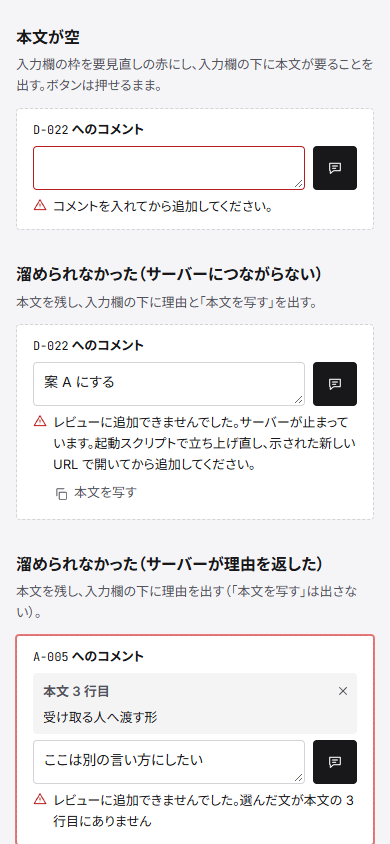
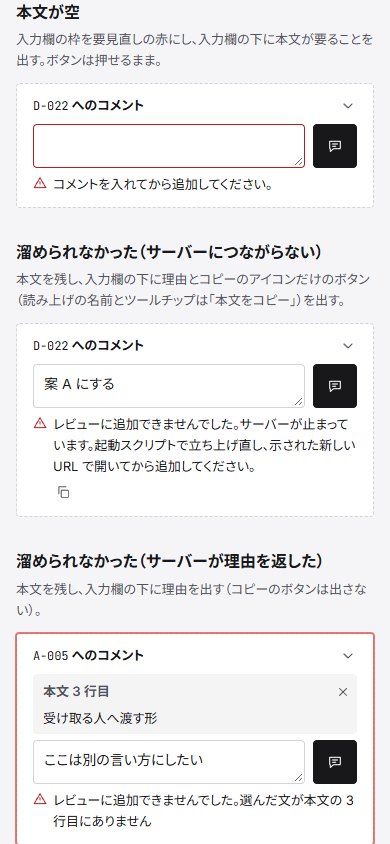
docs: コメントの入力の右上に開閉のボタンを追加する要望を要件とモックに反映 (#473)

diff --git a/dev/mock/components/send-form/index.html b/dev/mock/components/send-form/index.html
@@ -48,62 +48,62 @@
     <section class="cat-sec">
       <h2>通常（入力が空）</h2>
       <p>入力欄の右に、吹き出しのアイコンだけの「レビューに追加」を置く。読み上げの名前は「レビューに追加」、ツールチップは「レビューに追加（Ctrl+Enter）」。結果が無い間は入力欄の下に行を取らない。</p>
-      <div class="stage"><form class="send send-footer" novalidate onsubmit="return false"><label class="send-label" for="sf-1"><span class="mono">D-022</span> へのコメント</label><div class="send-line"><textarea id="sf-1" name="body" rows="1" aria-keyshortcuts="Control+Enter" aria-describedby="sf-1-msg"></textarea><button class="icon-btn send-submit" type="submit" aria-label="レビューに追加" title="レビューに追加（Ctrl+Enter）"><svg class="icon" viewBox="0 0 24 24" aria-hidden="true"><path d="M4 5h16v11H10l-5 4v-4H4Z"/><path d="M8 9h8M8 12.5h5"/></svg></button></div><p class="send-msg" id="sf-1-msg" role="status"></p></form></div>
+      <div class="stage"><form class="send send-footer" novalidate onsubmit="return false"><div class="send-head"><label class="send-label" for="sf-1"><span class="mono">D-022</span> へのコメント</label><button class="icon-btn send-toggle" type="button" aria-expanded="true" aria-controls="sf-1-body" aria-label="コメントの入力を閉じる" title="コメントの入力を閉じる"><svg class="icon" viewBox="0 0 24 24" aria-hidden="true"><path d="m9 6 6 6-6 6"/></svg></button></div><div class="send-body" id="sf-1-body"><div class="send-line"><textarea id="sf-1" name="body" rows="1" aria-keyshortcuts="Control+Enter" aria-describedby="sf-1-msg"></textarea><button class="icon-btn send-submit" type="submit" aria-label="レビューに追加" title="レビューに追加（Ctrl+Enter）"><svg class="icon" viewBox="0 0 24 24" aria-hidden="true"><path d="M4 5h16v11H10l-5 4v-4H4Z"/><path d="M8 9h8M8 12.5h5"/></svg></button></div><p class="send-msg" id="sf-1-msg" role="status"></p></div></form></div>
     </section>
     <section class="cat-sec">
       <h2>入力中（フォーカス）</h2>
       <p>入力欄に印の色の輪。Ctrl+Enter（macOS は Cmd+Enter）でも溜められる。</p>
-      <div class="stage"><form class="send send-footer" novalidate onsubmit="return false"><label class="send-label" for="sf-2"><span class="mono">D-022</span> へのコメント</label><div class="send-line"><textarea id="sf-2" name="body" rows="1" aria-keyshortcuts="Control+Enter" aria-describedby="sf-2-msg" class="is-focus">案 A にする</textarea><button class="icon-btn send-submit" type="submit" aria-label="レビューに追加" title="レビューに追加（Ctrl+Enter）"><svg class="icon" viewBox="0 0 24 24" aria-hidden="true"><path d="M4 5h16v11H10l-5 4v-4H4Z"/><path d="M8 9h8M8 12.5h5"/></svg></button></div><p class="send-msg" id="sf-2-msg" role="status"></p></form></div>
+      <div class="stage"><form class="send send-footer" novalidate onsubmit="return false"><div class="send-head"><label class="send-label" for="sf-2"><span class="mono">D-022</span> へのコメント</label><button class="icon-btn send-toggle" type="button" aria-expanded="true" aria-controls="sf-2-body" aria-label="コメントの入力を閉じる" title="コメントの入力を閉じる"><svg class="icon" viewBox="0 0 24 24" aria-hidden="true"><path d="m9 6 6 6-6 6"/></svg></button></div><div class="send-body" id="sf-2-body"><div class="send-line"><textarea id="sf-2" name="body" rows="1" aria-keyshortcuts="Control+Enter" aria-describedby="sf-2-msg" class="is-focus">案 A にする</textarea><button class="icon-btn send-submit" type="submit" aria-label="レビューに追加" title="レビューに追加（Ctrl+Enter）"><svg class="icon" viewBox="0 0 24 24" aria-hidden="true"><path d="M4 5h16v11H10l-5 4v-4H4Z"/><path d="M8 9h8M8 12.5h5"/></svg></button></div><p class="send-msg" id="sf-2-msg" role="status"></p></div></form></div>
     </section>
     <section class="cat-sec">
       <h2>溜めるボタンのホバー</h2>
       <p>塗りのまま少し薄くし、ツールチップを出す。</p>
-      <div class="stage"><form class="send send-footer" novalidate onsubmit="return false"><label class="send-label" for="sf-3h"><span class="mono">D-022</span> へのコメント</label><div class="send-line"><textarea id="sf-3h" name="body" rows="1" aria-keyshortcuts="Control+Enter" aria-describedby="sf-3h-msg">案 A にする</textarea><button class="icon-btn send-submit is-hover" type="submit" aria-label="レビューに追加" title="レビューに追加（Ctrl+Enter）"><svg class="icon" viewBox="0 0 24 24" aria-hidden="true"><path d="M4 5h16v11H10l-5 4v-4H4Z"/><path d="M8 9h8M8 12.5h5"/></svg></button></div><p class="send-msg" id="sf-3h-msg" role="status"></p></form></div>
+      <div class="stage"><form class="send send-footer" novalidate onsubmit="return false"><div class="send-head"><label class="send-label" for="sf-3h"><span class="mono">D-022</span> へのコメント</label><button class="icon-btn send-toggle" type="button" aria-expanded="true" aria-controls="sf-3h-body" aria-label="コメントの入力を閉じる" title="コメントの入力を閉じる"><svg class="icon" viewBox="0 0 24 24" aria-hidden="true"><path d="m9 6 6 6-6 6"/></svg></button></div><div class="send-body" id="sf-3h-body"><div class="send-line"><textarea id="sf-3h" name="body" rows="1" aria-keyshortcuts="Control+Enter" aria-describedby="sf-3h-msg">案 A にする</textarea><button class="icon-btn send-submit is-hover" type="submit" aria-label="レビューに追加" title="レビューに追加（Ctrl+Enter）"><svg class="icon" viewBox="0 0 24 24" aria-hidden="true"><path d="M4 5h16v11H10l-5 4v-4H4Z"/><path d="M8 9h8M8 12.5h5"/></svg></button></div><p class="send-msg" id="sf-3h-msg" role="status"></p></div></form></div>
     </section>
     <section class="cat-sec">
       <h2>溜めるボタンのフォーカス</h2>
       <p>Tab で入力欄の次に届き、印の色の輪を出す。ツールチップはフォーカスでも出す。</p>
-      <div class="stage"><form class="send send-footer" novalidate onsubmit="return false"><label class="send-label" for="sf-3"><span class="mono">D-022</span> へのコメント</label><div class="send-line"><textarea id="sf-3" name="body" rows="1" aria-keyshortcuts="Control+Enter" aria-describedby="sf-3-msg">案 A にする</textarea><button class="icon-btn send-submit is-focus" type="submit" aria-label="レビューに追加" title="レビューに追加（Ctrl+Enter）"><svg class="icon" viewBox="0 0 24 24" aria-hidden="true"><path d="M4 5h16v11H10l-5 4v-4H4Z"/><path d="M8 9h8M8 12.5h5"/></svg></button></div><p class="send-msg" id="sf-3-msg" role="status"></p></form></div>
+      <div class="stage"><form class="send send-footer" novalidate onsubmit="return false"><div class="send-head"><label class="send-label" for="sf-3"><span class="mono">D-022</span> へのコメント</label><button class="icon-btn send-toggle" type="button" aria-expanded="true" aria-controls="sf-3-body" aria-label="コメントの入力を閉じる" title="コメントの入力を閉じる"><svg class="icon" viewBox="0 0 24 24" aria-hidden="true"><path d="m9 6 6 6-6 6"/></svg></button></div><div class="send-body" id="sf-3-body"><div class="send-line"><textarea id="sf-3" name="body" rows="1" aria-keyshortcuts="Control+Enter" aria-describedby="sf-3-msg">案 A にする</textarea><button class="icon-btn send-submit is-focus" type="submit" aria-label="レビューに追加" title="レビューに追加（Ctrl+Enter）"><svg class="icon" viewBox="0 0 24 24" aria-hidden="true"><path d="M4 5h16v11H10l-5 4v-4H4Z"/><path d="M8 9h8M8 12.5h5"/></svg></button></div><p class="send-msg" id="sf-3-msg" role="status"></p></div></form></div>
     </section>
     <section class="cat-sec">
       <h2>箇所を添えた（本文）</h2>
       <p>入力欄の上に箇所の名前と選んだ文を出し、× で外す。ボタンの並びは変わらない。</p>
-      <div class="stage"><form class="send send-footer" novalidate onsubmit="return false"><label class="send-label" for="sf-4"><span class="mono">A-005</span> へのコメント</label><div class="send-loc" id="sf-4-loc"><div class="send-loc-head"><span class="send-loc-name">本文 3 行目</span><button class="icon-btn send-unquote" type="button" aria-label="箇所を外す" title="箇所を外す"><svg class="icon" viewBox="0 0 24 24" aria-hidden="true"><path d="M18 6 6 18M6 6l12 12"/></svg></button></div><blockquote class="send-quote">受け取る人へ渡す形</blockquote></div><div class="send-line"><textarea id="sf-4" name="body" rows="1" aria-keyshortcuts="Control+Enter" aria-describedby="sf-4-loc sf-4-msg" class="is-focus"></textarea><button class="icon-btn send-submit" type="submit" aria-label="レビューに追加" title="レビューに追加（Ctrl+Enter）"><svg class="icon" viewBox="0 0 24 24" aria-hidden="true"><path d="M4 5h16v11H10l-5 4v-4H4Z"/><path d="M8 9h8M8 12.5h5"/></svg></button></div><p class="send-msg" id="sf-4-msg" role="status"></p></form></div>
+      <div class="stage"><form class="send send-footer" novalidate onsubmit="return false"><div class="send-head"><label class="send-label" for="sf-4"><span class="mono">A-005</span> へのコメント</label><button class="icon-btn send-toggle" type="button" aria-expanded="true" aria-controls="sf-4-body" aria-label="コメントの入力を閉じる" title="コメントの入力を閉じる"><svg class="icon" viewBox="0 0 24 24" aria-hidden="true"><path d="m9 6 6 6-6 6"/></svg></button></div><div class="send-body" id="sf-4-body"><div class="send-loc" id="sf-4-loc"><div class="send-loc-head"><span class="send-loc-name">本文 3 行目</span><button class="icon-btn send-unquote" type="button" aria-label="箇所を外す" title="箇所を外す"><svg class="icon" viewBox="0 0 24 24" aria-hidden="true"><path d="M18 6 6 18M6 6l12 12"/></svg></button></div><blockquote class="send-quote">受け取る人へ渡す形</blockquote></div><div class="send-line"><textarea id="sf-4" name="body" rows="1" aria-keyshortcuts="Control+Enter" aria-describedby="sf-4-loc sf-4-msg" class="is-focus"></textarea><button class="icon-btn send-submit" type="submit" aria-label="レビューに追加" title="レビューに追加（Ctrl+Enter）"><svg class="icon" viewBox="0 0 24 24" aria-hidden="true"><path d="M4 5h16v11H10l-5 4v-4H4Z"/><path d="M8 9h8M8 12.5h5"/></svg></button></div><p class="send-msg" id="sf-4-msg" role="status"></p></div></form></div>
     </section>
     <section class="cat-sec">
       <h2>箇所を添えた（値・長い選んだ文）</h2>
       <p>選んだ文は 3 行までにして末尾を省く。</p>
-      <div class="stage"><form class="send send-footer" novalidate onsubmit="return false"><label class="send-label" for="sf-5"><span class="mono">D-022</span> へのコメント</label><div class="send-loc" id="sf-5-loc"><div class="send-loc-head"><span class="send-loc-name">案 C のデメリット</span><button class="icon-btn send-unquote" type="button" aria-label="箇所を外す" title="箇所を外す"><svg class="icon" viewBox="0 0 24 24" aria-hidden="true"><path d="M18 6 6 18M6 6l12 12"/></svg></button></div><blockquote class="send-quote">表の密度が下がる。表の列を詰めて並べるため、1 行に出せる項目の数が減り、ID と状態の列が画面の外へ押し出される。狭い幅では横に送らないと読めない列が増え、比べるのに手間がかかる</blockquote></div><div class="send-line"><textarea id="sf-5" name="body" rows="1" aria-keyshortcuts="Control+Enter" aria-describedby="sf-5-loc sf-5-msg">ここは別の言い方にしたい</textarea><button class="icon-btn send-submit" type="submit" aria-label="レビューに追加" title="レビューに追加（Ctrl+Enter）"><svg class="icon" viewBox="0 0 24 24" aria-hidden="true"><path d="M4 5h16v11H10l-5 4v-4H4Z"/><path d="M8 9h8M8 12.5h5"/></svg></button></div><p class="send-msg" id="sf-5-msg" role="status"></p></form></div>
+      <div class="stage"><form class="send send-footer" novalidate onsubmit="return false"><div class="send-head"><label class="send-label" for="sf-5"><span class="mono">D-022</span> へのコメント</label><button class="icon-btn send-toggle" type="button" aria-expanded="true" aria-controls="sf-5-body" aria-label="コメントの入力を閉じる" title="コメントの入力を閉じる"><svg class="icon" viewBox="0 0 24 24" aria-hidden="true"><path d="m9 6 6 6-6 6"/></svg></button></div><div class="send-body" id="sf-5-body"><div class="send-loc" id="sf-5-loc"><div class="send-loc-head"><span class="send-loc-name">案 C のデメリット</span><button class="icon-btn send-unquote" type="button" aria-label="箇所を外す" title="箇所を外す"><svg class="icon" viewBox="0 0 24 24" aria-hidden="true"><path d="M18 6 6 18M6 6l12 12"/></svg></button></div><blockquote class="send-quote">表の密度が下がる。表の列を詰めて並べるため、1 行に出せる項目の数が減り、ID と状態の列が画面の外へ押し出される。狭い幅では横に送らないと読めない列が増え、比べるのに手間がかかる</blockquote></div><div class="send-line"><textarea id="sf-5" name="body" rows="1" aria-keyshortcuts="Control+Enter" aria-describedby="sf-5-loc sf-5-msg">ここは別の言い方にしたい</textarea><button class="icon-btn send-submit" type="submit" aria-label="レビューに追加" title="レビューに追加（Ctrl+Enter）"><svg class="icon" viewBox="0 0 24 24" aria-hidden="true"><path d="M4 5h16v11H10l-5 4v-4H4Z"/><path d="M8 9h8M8 12.5h5"/></svg></button></div><p class="send-msg" id="sf-5-msg" role="status"></p></div></form></div>
     </section>
     <section class="cat-sec">
       <h2>溜めている</h2>
       <p>入力欄を書き換えられなくし、ボタンを押せなくする（面を沈める）。1 秒を超えたら回る印と「レビューに追加しています」を入力欄の下に出す。</p>
-      <div class="stage"><form class="send send-footer" novalidate onsubmit="return false"><label class="send-label" for="sf-6"><span class="mono">D-022</span> へのコメント</label><div class="send-line"><textarea id="sf-6" name="body" rows="1" aria-keyshortcuts="Control+Enter" aria-describedby="sf-6-msg" readonly>案 A にする</textarea><button class="icon-btn send-submit" type="submit" aria-label="レビューに追加" title="レビューに追加（Ctrl+Enter）" disabled data-saving><svg class="icon" viewBox="0 0 24 24" aria-hidden="true"><path d="M4 5h16v11H10l-5 4v-4H4Z"/><path d="M8 9h8M8 12.5h5"/></svg></button></div><p class="send-msg saving" id="sf-6-msg" role="status"><span class="spinner" aria-hidden="true"></span><span>レビューに追加しています</span></p></form></div>
+      <div class="stage"><form class="send send-footer" novalidate onsubmit="return false"><div class="send-head"><label class="send-label" for="sf-6"><span class="mono">D-022</span> へのコメント</label><button class="icon-btn send-toggle" type="button" aria-expanded="true" aria-controls="sf-6-body" aria-label="コメントの入力を閉じる" title="コメントの入力を閉じる"><svg class="icon" viewBox="0 0 24 24" aria-hidden="true"><path d="m9 6 6 6-6 6"/></svg></button></div><div class="send-body" id="sf-6-body"><div class="send-line"><textarea id="sf-6" name="body" rows="1" aria-keyshortcuts="Control+Enter" aria-describedby="sf-6-msg" readonly>案 A にする</textarea><button class="icon-btn send-submit" type="submit" aria-label="レビューに追加" title="レビューに追加（Ctrl+Enter）" disabled data-saving><svg class="icon" viewBox="0 0 24 24" aria-hidden="true"><path d="M4 5h16v11H10l-5 4v-4H4Z"/><path d="M8 9h8M8 12.5h5"/></svg></button></div><p class="send-msg saving" id="sf-6-msg" role="status"><span class="spinner" aria-hidden="true"></span><span>レビューに追加しています</span></p></div></form></div>
     </section>
     <section class="cat-sec">
       <h2>溜めた</h2>
       <p>入力欄を空にし、入力欄の下に溜めたことと件数を出す。入力を始めたら消す。</p>
-      <div class="stage"><form class="send send-footer" novalidate onsubmit="return false"><label class="send-label" for="sf-7"><span class="mono">D-022</span> へのコメント</label><div class="send-line"><textarea id="sf-7" name="body" rows="1" aria-keyshortcuts="Control+Enter" aria-describedby="sf-7-msg"></textarea><button class="icon-btn send-submit" type="submit" aria-label="レビューに追加" title="レビューに追加（Ctrl+Enter）"><svg class="icon" viewBox="0 0 24 24" aria-hidden="true"><path d="M4 5h16v11H10l-5 4v-4H4Z"/><path d="M8 9h8M8 12.5h5"/></svg></button></div><p class="send-msg saved" id="sf-7-msg" role="status"><svg class="icon" viewBox="0 0 24 24" aria-hidden="true"><path d="m5 12 5 5 9-10"/></svg><span>レビューに追加しました（レビュー中 3 件）。</span></p></form></div>
+      <div class="stage"><form class="send send-footer" novalidate onsubmit="return false"><div class="send-head"><label class="send-label" for="sf-7"><span class="mono">D-022</span> へのコメント</label><button class="icon-btn send-toggle" type="button" aria-expanded="true" aria-controls="sf-7-body" aria-label="コメントの入力を閉じる" title="コメントの入力を閉じる"><svg class="icon" viewBox="0 0 24 24" aria-hidden="true"><path d="m9 6 6 6-6 6"/></svg></button></div><div class="send-body" id="sf-7-body"><div class="send-line"><textarea id="sf-7" name="body" rows="1" aria-keyshortcuts="Control+Enter" aria-describedby="sf-7-msg"></textarea><button class="icon-btn send-submit" type="submit" aria-label="レビューに追加" title="レビューに追加（Ctrl+Enter）"><svg class="icon" viewBox="0 0 24 24" aria-hidden="true"><path d="M4 5h16v11H10l-5 4v-4H4Z"/><path d="M8 9h8M8 12.5h5"/></svg></button></div><p class="send-msg saved" id="sf-7-msg" role="status"><svg class="icon" viewBox="0 0 24 24" aria-hidden="true"><path d="m5 12 5 5 9-10"/></svg><span>レビューに追加しました（レビュー中 3 件）。</span></p></div></form></div>
     </section>
     <section class="cat-sec">
       <h2>本文が空</h2>
       <p>入力欄の枠を要見直しの赤にし、入力欄の下に本文が要ることを出す。ボタンは押せるまま。</p>
-      <div class="stage"><form class="send send-footer" novalidate onsubmit="return false"><label class="send-label" for="sf-8"><span class="mono">D-022</span> へのコメント</label><div class="send-line"><textarea id="sf-8" name="body" rows="1" aria-keyshortcuts="Control+Enter" aria-describedby="sf-8-msg" aria-invalid="true"></textarea><button class="icon-btn send-submit" type="submit" aria-label="レビューに追加" title="レビューに追加（Ctrl+Enter）"><svg class="icon" viewBox="0 0 24 24" aria-hidden="true"><path d="M4 5h16v11H10l-5 4v-4H4Z"/><path d="M8 9h8M8 12.5h5"/></svg></button></div><p class="send-msg empty" id="sf-8-msg" role="status"><svg class="icon" viewBox="0 0 24 24" aria-hidden="true"><path d="M12 3 2 20h20Z"/><path d="M12 10v4M12 17h.01"/></svg><span>コメントを入れてから追加してください。</span></p></form></div>
+      <div class="stage"><form class="send send-footer" novalidate onsubmit="return false"><div class="send-head"><label class="send-label" for="sf-8"><span class="mono">D-022</span> へのコメント</label><button class="icon-btn send-toggle" type="button" aria-expanded="true" aria-controls="sf-8-body" aria-label="コメントの入力を閉じる" title="コメントの入力を閉じる"><svg class="icon" viewBox="0 0 24 24" aria-hidden="true"><path d="m9 6 6 6-6 6"/></svg></button></div><div class="send-body" id="sf-8-body"><div class="send-line"><textarea id="sf-8" name="body" rows="1" aria-keyshortcuts="Control+Enter" aria-describedby="sf-8-msg" aria-invalid="true"></textarea><button class="icon-btn send-submit" type="submit" aria-label="レビューに追加" title="レビューに追加（Ctrl+Enter）"><svg class="icon" viewBox="0 0 24 24" aria-hidden="true"><path d="M4 5h16v11H10l-5 4v-4H4Z"/><path d="M8 9h8M8 12.5h5"/></svg></button></div><p class="send-msg empty" id="sf-8-msg" role="status"><svg class="icon" viewBox="0 0 24 24" aria-hidden="true"><path d="M12 3 2 20h20Z"/><path d="M12 10v4M12 17h.01"/></svg><span>コメントを入れてから追加してください。</span></p></div></form></div>
     </section>
     <section class="cat-sec">
       <h2>溜められなかった（サーバーにつながらない）</h2>
       <p>本文を残し、入力欄の下に理由とコピーのアイコンだけのボタン（読み上げの名前とツールチップは「本文をコピー」）を出す。</p>
-      <div class="stage"><form class="send send-footer" novalidate onsubmit="return false"><label class="send-label" for="sf-9"><span class="mono">D-022</span> へのコメント</label><div class="send-line"><textarea id="sf-9" name="body" rows="1" aria-keyshortcuts="Control+Enter" aria-describedby="sf-9-msg">案 A にする</textarea><button class="icon-btn send-submit" type="submit" aria-label="レビューに追加" title="レビューに追加（Ctrl+Enter）"><svg class="icon" viewBox="0 0 24 24" aria-hidden="true"><path d="M4 5h16v11H10l-5 4v-4H4Z"/><path d="M8 9h8M8 12.5h5"/></svg></button></div><p class="send-msg failed" id="sf-9-msg" role="status"><svg class="icon" viewBox="0 0 24 24" aria-hidden="true"><path d="M12 3 2 20h20Z"/><path d="M12 10v4M12 17h.01"/></svg><span class="send-msg-body"><span>レビューに追加できませんでした。サーバーが止まっています。起動スクリプトで立ち上げ直し、示された新しい URL で開いてから追加してください。</span><button class="icon-btn send-copy-icon" type="button" aria-label="本文をコピー" title="本文をコピー"><svg class="icon" viewBox="0 0 24 24" aria-hidden="true"><rect x="9" y="9" width="12" height="12" rx="1"/><path d="M5 15V4a1 1 0 0 1 1-1h11"/></svg></button></span></p></form></div>
+      <div class="stage"><form class="send send-footer" novalidate onsubmit="return false"><div class="send-head"><label class="send-label" for="sf-9"><span class="mono">D-022</span> へのコメント</label><button class="icon-btn send-toggle" type="button" aria-expanded="true" aria-controls="sf-9-body" aria-label="コメントの入力を閉じる" title="コメントの入力を閉じる"><svg class="icon" viewBox="0 0 24 24" aria-hidden="true"><path d="m9 6 6 6-6 6"/></svg></button></div><div class="send-body" id="sf-9-body"><div class="send-line"><textarea id="sf-9" name="body" rows="1" aria-keyshortcuts="Control+Enter" aria-describedby="sf-9-msg">案 A にする</textarea><button class="icon-btn send-submit" type="submit" aria-label="レビューに追加" title="レビューに追加（Ctrl+Enter）"><svg class="icon" viewBox="0 0 24 24" aria-hidden="true"><path d="M4 5h16v11H10l-5 4v-4H4Z"/><path d="M8 9h8M8 12.5h5"/></svg></button></div><p class="send-msg failed" id="sf-9-msg" role="status"><svg class="icon" viewBox="0 0 24 24" aria-hidden="true"><path d="M12 3 2 20h20Z"/><path d="M12 10v4M12 17h.01"/></svg><span class="send-msg-body"><span>レビューに追加できませんでした。サーバーが止まっています。起動スクリプトで立ち上げ直し、示された新しい URL で開いてから追加してください。</span><button class="icon-btn send-copy-icon" type="button" aria-label="本文をコピー" title="本文をコピー"><svg class="icon" viewBox="0 0 24 24" aria-hidden="true"><rect x="9" y="9" width="12" height="12" rx="1"/><path d="M5 15V4a1 1 0 0 1 1-1h11"/></svg></button></span></p></div></form></div>
     </section>
     <section class="cat-sec">
       <h2>溜められなかった（サーバーが理由を返した）</h2>
       <p>本文を残し、入力欄の下に理由を出す（コピーのボタンは出さない）。</p>
-      <div class="stage"><form class="send send-footer" novalidate onsubmit="return false"><label class="send-label" for="sf-9d"><span class="mono">A-005</span> へのコメント</label><div class="send-loc" id="sf-9d-loc"><div class="send-loc-head"><span class="send-loc-name">本文 3 行目</span><button class="icon-btn send-unquote" type="button" aria-label="箇所を外す" title="箇所を外す"><svg class="icon" viewBox="0 0 24 24" aria-hidden="true"><path d="M18 6 6 18M6 6l12 12"/></svg></button></div><blockquote class="send-quote">受け取る人へ渡す形</blockquote></div><div class="send-line"><textarea id="sf-9d" name="body" rows="1" aria-keyshortcuts="Control+Enter" aria-describedby="sf-9d-loc sf-9d-msg">ここは別の言い方にしたい</textarea><button class="icon-btn send-submit" type="submit" aria-label="レビューに追加" title="レビューに追加（Ctrl+Enter）"><svg class="icon" viewBox="0 0 24 24" aria-hidden="true"><path d="M4 5h16v11H10l-5 4v-4H4Z"/><path d="M8 9h8M8 12.5h5"/></svg></button></div><p class="send-msg failed" id="sf-9d-msg" role="status"><svg class="icon" viewBox="0 0 24 24" aria-hidden="true"><path d="M12 3 2 20h20Z"/><path d="M12 10v4M12 17h.01"/></svg><span>レビューに追加できませんでした。選んだ文が本文の 3 行目にありません</span></p></form></div>
+      <div class="stage"><form class="send send-footer" novalidate onsubmit="return false"><div class="send-head"><label class="send-label" for="sf-9d"><span class="mono">A-005</span> へのコメント</label><button class="icon-btn send-toggle" type="button" aria-expanded="true" aria-controls="sf-9d-body" aria-label="コメントの入力を閉じる" title="コメントの入力を閉じる"><svg class="icon" viewBox="0 0 24 24" aria-hidden="true"><path d="m9 6 6 6-6 6"/></svg></button></div><div class="send-body" id="sf-9d-body"><div class="send-loc" id="sf-9d-loc"><div class="send-loc-head"><span class="send-loc-name">本文 3 行目</span><button class="icon-btn send-unquote" type="button" aria-label="箇所を外す" title="箇所を外す"><svg class="icon" viewBox="0 0 24 24" aria-hidden="true"><path d="M18 6 6 18M6 6l12 12"/></svg></button></div><blockquote class="send-quote">受け取る人へ渡す形</blockquote></div><div class="send-line"><textarea id="sf-9d" name="body" rows="1" aria-keyshortcuts="Control+Enter" aria-describedby="sf-9d-loc sf-9d-msg">ここは別の言い方にしたい</textarea><button class="icon-btn send-submit" type="submit" aria-label="レビューに追加" title="レビューに追加（Ctrl+Enter）"><svg class="icon" viewBox="0 0 24 24" aria-hidden="true"><path d="M4 5h16v11H10l-5 4v-4H4Z"/><path d="M8 9h8M8 12.5h5"/></svg></button></div><p class="send-msg failed" id="sf-9d-msg" role="status"><svg class="icon" viewBox="0 0 24 24" aria-hidden="true"><path d="M12 3 2 20h20Z"/><path d="M12 10v4M12 17h.01"/></svg><span>レビューに追加できませんでした。選んだ文が本文の 3 行目にありません</span></p></div></form></div>
     </section>
     <section class="cat-sec">
       <h2>長文（ボタンの縦の位置: 案 A・推奨）</h2>
       <p>入力欄は 8 行まで伸び、それより長いと中を送る。ボタンは入力欄の下端に合わせ、書き終えた位置の近くで押せる。</p>
-      <div class="stage"><form class="send send-footer" novalidate onsubmit="return false"><label class="send-label" for="sf-10"><span class="mono">D-022</span> へのコメント</label><div class="send-line"><textarea id="sf-10" name="body" rows="1" aria-keyshortcuts="Control+Enter" aria-describedby="sf-10-msg">案 A にする。
+      <div class="stage"><form class="send send-footer" novalidate onsubmit="return false"><div class="send-head"><label class="send-label" for="sf-10"><span class="mono">D-022</span> へのコメント</label><button class="icon-btn send-toggle" type="button" aria-expanded="true" aria-controls="sf-10-body" aria-label="コメントの入力を閉じる" title="コメントの入力を閉じる"><svg class="icon" viewBox="0 0 24 24" aria-hidden="true"><path d="m9 6 6 6-6 6"/></svg></button></div><div class="send-body" id="sf-10-body"><div class="send-line"><textarea id="sf-10" name="body" rows="1" aria-keyshortcuts="Control+Enter" aria-describedby="sf-10-msg">案 A にする。
 理由: 読み返す画面なので、表と数値を長く読んでも疲れない無彩色の骨格がよい。
 印の色は 1 色に絞り、状態の色は状態の表示だけに使う。
 B のカード中心は一覧が長くなると縦に伸びるので、検討事項の表と相性が悪い。
@@ -112,12 +112,12 @@ C のダークは夜間に読むことが少ないので、明暗の切り替え
 フォントは Google Fonts から読む今の形のままでよい。
 ID の等幅は残す。
 図の色はトークンから決める今の形でよい。
-以上。</textarea><button class="icon-btn send-submit" type="submit" aria-label="レビューに追加" title="レビューに追加（Ctrl+Enter）"><svg class="icon" viewBox="0 0 24 24" aria-hidden="true"><path d="M4 5h16v11H10l-5 4v-4H4Z"/><path d="M8 9h8M8 12.5h5"/></svg></button></div><p class="send-msg" id="sf-10-msg" role="status"></p></form></div>
+以上。</textarea><button class="icon-btn send-submit" type="submit" aria-label="レビューに追加" title="レビューに追加（Ctrl+Enter）"><svg class="icon" viewBox="0 0 24 24" aria-hidden="true"><path d="M4 5h16v11H10l-5 4v-4H4Z"/><path d="M8 9h8M8 12.5h5"/></svg></button></div><p class="send-msg" id="sf-10-msg" role="status"></p></div></form></div>
     </section>
     <section class="cat-sec">
       <h2>長文（ボタンの縦の位置: 案 B）</h2>
       <p>ボタンを入力欄の上端に合わせた案。行数が増えてもボタンの位置は動かない。</p>
-      <div class="stage"><form class="send send-footer" novalidate onsubmit="return false"><label class="send-label" for="sf-10b"><span class="mono">D-022</span> へのコメント</label><div class="send-line top"><textarea id="sf-10b" name="body" rows="1" aria-keyshortcuts="Control+Enter" aria-describedby="sf-10b-msg">案 A にする。
+      <div class="stage"><form class="send send-footer" novalidate onsubmit="return false"><div class="send-head"><label class="send-label" for="sf-10b"><span class="mono">D-022</span> へのコメント</label><button class="icon-btn send-toggle" type="button" aria-expanded="true" aria-controls="sf-10b-body" aria-label="コメントの入力を閉じる" title="コメントの入力を閉じる"><svg class="icon" viewBox="0 0 24 24" aria-hidden="true"><path d="m9 6 6 6-6 6"/></svg></button></div><div class="send-body" id="sf-10b-body"><div class="send-line top"><textarea id="sf-10b" name="body" rows="1" aria-keyshortcuts="Control+Enter" aria-describedby="sf-10b-msg">案 A にする。
 理由: 読み返す画面なので、表と数値を長く読んでも疲れない無彩色の骨格がよい。
 印の色は 1 色に絞り、状態の色は状態の表示だけに使う。
 B のカード中心は一覧が長くなると縦に伸びるので、検討事項の表と相性が悪い。
@@ -126,12 +126,22 @@ C のダークは夜間に読むことが少ないので、明暗の切り替え
 フォントは Google Fonts から読む今の形のままでよい。
 ID の等幅は残す。
 図の色はトークンから決める今の形でよい。
-以上。</textarea><button class="icon-btn send-submit" type="submit" aria-label="レビューに追加" title="レビューに追加（Ctrl+Enter）"><svg class="icon" viewBox="0 0 24 24" aria-hidden="true"><path d="M4 5h16v11H10l-5 4v-4H4Z"/><path d="M8 9h8M8 12.5h5"/></svg></button></div><p class="send-msg" id="sf-10b-msg" role="status"></p></form></div>
+以上。</textarea><button class="icon-btn send-submit" type="submit" aria-label="レビューに追加" title="レビューに追加（Ctrl+Enter）"><svg class="icon" viewBox="0 0 24 24" aria-hidden="true"><path d="M4 5h16v11H10l-5 4v-4H4Z"/><path d="M8 9h8M8 12.5h5"/></svg></button></div><p class="send-msg" id="sf-10b-msg" role="status"></p></div></form></div>
     </section>
     <section class="cat-sec">
       <h2>アイコンの案 B（送信のアイコン）</h2>
       <p>まとめて送るボタンと同じ紙飛行機のアイコンにした案。押すと溜まる操作だと読み取りやすいが、まとめて送る操作と取り違えやすい。</p>
-      <div class="stage"><form class="send send-footer" novalidate onsubmit="return false"><label class="send-label" for="sf-icon-b"><span class="mono">D-022</span> へのコメント</label><div class="send-line"><textarea id="sf-icon-b" name="body" rows="1" aria-keyshortcuts="Control+Enter" aria-describedby="sf-icon-b-msg">案 A にする</textarea><button class="icon-btn send-submit" type="submit" aria-label="レビューに追加" title="レビューに追加（Ctrl+Enter）"><svg class="icon" viewBox="0 0 24 24" aria-hidden="true"><path d="M4 12 20 4l-4 16-4-6Z"/><path d="m12 14 8-10"/></svg></button></div><p class="send-msg" id="sf-icon-b-msg" role="status"></p></form></div>
+      <div class="stage"><form class="send send-footer" novalidate onsubmit="return false"><div class="send-head"><label class="send-label" for="sf-icon-b"><span class="mono">D-022</span> へのコメント</label><button class="icon-btn send-toggle" type="button" aria-expanded="true" aria-controls="sf-icon-b-body" aria-label="コメントの入力を閉じる" title="コメントの入力を閉じる"><svg class="icon" viewBox="0 0 24 24" aria-hidden="true"><path d="m9 6 6 6-6 6"/></svg></button></div><div class="send-body" id="sf-icon-b-body"><div class="send-line"><textarea id="sf-icon-b" name="body" rows="1" aria-keyshortcuts="Control+Enter" aria-describedby="sf-icon-b-msg">案 A にする</textarea><button class="icon-btn send-submit" type="submit" aria-label="レビューに追加" title="レビューに追加（Ctrl+Enter）"><svg class="icon" viewBox="0 0 24 24" aria-hidden="true"><path d="M4 12 20 4l-4 16-4-6Z"/><path d="m12 14 8-10"/></svg></button></div><p class="send-msg" id="sf-icon-b-msg" role="status"></p></div></form></div>
+    </section>
+    <section class="cat-sec">
+      <h2>閉じた</h2>
+      <p>右上の ^ で開く。閉じている間は「{ID} へのコメント」の 1 行だけを出し、入力欄・添えた箇所・結果・「レビューに追加」を出さない。書きかけは閉じても残る。</p>
+      <div class="stage"><form class="send send-footer is-closed" novalidate onsubmit="return false"><div class="send-head"><span class="send-label"><span class="mono">D-022</span> へのコメント</span><button class="icon-btn send-toggle" type="button" aria-expanded="false" aria-controls="sf-c1-body" aria-label="コメントの入力を開く" title="コメントの入力を開く"><svg class="icon" viewBox="0 0 24 24" aria-hidden="true"><path d="m9 6 6 6-6 6"/></svg></button></div><div class="send-body" id="sf-c1-body" hidden></div></form></div>
+    </section>
+    <section class="cat-sec">
+      <h2>開閉のボタンのホバー・フォーカス</h2>
+      <p>開いている間は v（コメントの入力を閉じる）、閉じている間は ^（コメントの入力を開く）。ツールチップはホバーとフォーカスで出す。</p>
+      <div class="stage"><form class="send send-footer" novalidate onsubmit="return false"><div class="send-head"><label class="send-label" for="sf-c2"><span class="mono">D-022</span> へのコメント</label><button class="icon-btn send-toggle is-focus" type="button" aria-expanded="true" aria-controls="sf-c2-body" aria-label="コメントの入力を閉じる" title="コメントの入力を閉じる"><svg class="icon" viewBox="0 0 24 24" aria-hidden="true"><path d="m9 6 6 6-6 6"/></svg></button></div><div class="send-body" id="sf-c2-body"><div class="send-line"><textarea id="sf-c2" name="body" rows="1" aria-keyshortcuts="Control+Enter" aria-describedby="sf-c2-msg"></textarea><button class="icon-btn send-submit" type="submit" aria-label="レビューに追加" title="レビューに追加（Ctrl+Enter）"><svg class="icon" viewBox="0 0 24 24" aria-hidden="true"><path d="M4 5h16v11H10l-5 4v-4H4Z"/><path d="M8 9h8M8 12.5h5"/></svg></button></div><p class="send-msg" id="sf-c2-msg" role="status"></p></div></form><form class="send send-footer is-closed" novalidate onsubmit="return false"><div class="send-head"><span class="send-label"><span class="mono">D-022</span> へのコメント</span><button class="icon-btn send-toggle is-focus" type="button" aria-expanded="false" aria-controls="sf-c3-body" aria-label="コメントの入力を開く" title="コメントの入力を開く"><svg class="icon" viewBox="0 0 24 24" aria-hidden="true"><path d="m9 6 6 6-6 6"/></svg></button></div><div class="send-body" id="sf-c3-body" hidden></div></form></div>
     </section>
     <section class="cat-sec">
       <h2>項目を指さないコメント（コメントの一覧の新しいスレッドの入力）</h2>
@@ -146,12 +156,17 @@ ID の等幅は残す。
     <section class="cat-sec">
       <h2>狭い幅（390px）</h2>
       <p>部品の幅によらず入力欄とボタンを 1 行に並べ、結果は入力欄の下に幅いっぱいで出す。</p>
-      <div class="stage narrow"><form class="send send-footer" novalidate onsubmit="return false"><label class="send-label" for="sf-14"><span class="mono">D-022</span> へのコメント</label><div class="send-loc" id="sf-14-loc"><div class="send-loc-head"><span class="send-loc-name">本文 3 行目</span><button class="icon-btn send-unquote" type="button" aria-label="箇所を外す" title="箇所を外す"><svg class="icon" viewBox="0 0 24 24" aria-hidden="true"><path d="M18 6 6 18M6 6l12 12"/></svg></button></div><blockquote class="send-quote">受け取る人へ渡す形</blockquote></div><div class="send-line"><textarea id="sf-14" name="body" rows="1" aria-keyshortcuts="Control+Enter" aria-describedby="sf-14-loc sf-14-msg">案 A にする</textarea><button class="icon-btn send-submit" type="submit" aria-label="レビューに追加" title="レビューに追加（Ctrl+Enter）"><svg class="icon" viewBox="0 0 24 24" aria-hidden="true"><path d="M4 5h16v11H10l-5 4v-4H4Z"/><path d="M8 9h8M8 12.5h5"/></svg></button></div><p class="send-msg failed" id="sf-14-msg" role="status"><svg class="icon" viewBox="0 0 24 24" aria-hidden="true"><path d="M12 3 2 20h20Z"/><path d="M12 10v4M12 17h.01"/></svg><span class="send-msg-body"><span>レビューに追加できませんでした。サーバーが止まっています。起動スクリプトで立ち上げ直し、示された新しい URL で開いてから追加してください。</span><button class="icon-btn send-copy-icon" type="button" aria-label="本文をコピー" title="本文をコピー"><svg class="icon" viewBox="0 0 24 24" aria-hidden="true"><rect x="9" y="9" width="12" height="12" rx="1"/><path d="M5 15V4a1 1 0 0 1 1-1h11"/></svg></button></span></p></form></div>
+      <div class="stage narrow"><form class="send send-footer" novalidate onsubmit="return false"><div class="send-head"><label class="send-label" for="sf-14"><span class="mono">D-022</span> へのコメント</label><button class="icon-btn send-toggle" type="button" aria-expanded="true" aria-controls="sf-14-body" aria-label="コメントの入力を閉じる" title="コメントの入力を閉じる"><svg class="icon" viewBox="0 0 24 24" aria-hidden="true"><path d="m9 6 6 6-6 6"/></svg></button></div><div class="send-body" id="sf-14-body"><div class="send-loc" id="sf-14-loc"><div class="send-loc-head"><span class="send-loc-name">本文 3 行目</span><button class="icon-btn send-unquote" type="button" aria-label="箇所を外す" title="箇所を外す"><svg class="icon" viewBox="0 0 24 24" aria-hidden="true"><path d="M18 6 6 18M6 6l12 12"/></svg></button></div><blockquote class="send-quote">受け取る人へ渡す形</blockquote></div><div class="send-line"><textarea id="sf-14" name="body" rows="1" aria-keyshortcuts="Control+Enter" aria-describedby="sf-14-loc sf-14-msg">案 A にする</textarea><button class="icon-btn send-submit" type="submit" aria-label="レビューに追加" title="レビューに追加（Ctrl+Enter）"><svg class="icon" viewBox="0 0 24 24" aria-hidden="true"><path d="M4 5h16v11H10l-5 4v-4H4Z"/><path d="M8 9h8M8 12.5h5"/></svg></button></div><p class="send-msg failed" id="sf-14-msg" role="status"><svg class="icon" viewBox="0 0 24 24" aria-hidden="true"><path d="M12 3 2 20h20Z"/><path d="M12 10v4M12 17h.01"/></svg><span class="send-msg-body"><span>レビューに追加できませんでした。サーバーが止まっています。起動スクリプトで立ち上げ直し、示された新しい URL で開いてから追加してください。</span><button class="icon-btn send-copy-icon" type="button" aria-label="本文をコピー" title="本文をコピー"><svg class="icon" viewBox="0 0 24 24" aria-hidden="true"><rect x="9" y="9" width="12" height="12" rx="1"/><path d="M5 15V4a1 1 0 0 1 1-1h11"/></svg></button></span></p></div></form></div>
     </section>
     <section class="cat-sec">
       <h2>最も狭い幅（320px）</h2>
       <p>入力欄はボタンの幅を除いた残りに広がり、結果の文言は折り返す。</p>
-      <div class="stage narrowest"><form class="send send-footer" novalidate onsubmit="return false"><label class="send-label" for="sf-15"><span class="mono">D-022</span> へのコメント</label><div class="send-line"><textarea id="sf-15" name="body" rows="1" aria-keyshortcuts="Control+Enter" aria-describedby="sf-15-msg"></textarea><button class="icon-btn send-submit" type="submit" aria-label="レビューに追加" title="レビューに追加（Ctrl+Enter）"><svg class="icon" viewBox="0 0 24 24" aria-hidden="true"><path d="M4 5h16v11H10l-5 4v-4H4Z"/><path d="M8 9h8M8 12.5h5"/></svg></button></div><p class="send-msg saved" id="sf-15-msg" role="status"><svg class="icon" viewBox="0 0 24 24" aria-hidden="true"><path d="m5 12 5 5 9-10"/></svg><span>レビューに追加しました（レビュー中 3 件）。</span></p></form></div>
+      <div class="stage narrowest"><form class="send send-footer" novalidate onsubmit="return false"><div class="send-head"><label class="send-label" for="sf-15"><span class="mono">D-022</span> へのコメント</label><button class="icon-btn send-toggle" type="button" aria-expanded="true" aria-controls="sf-15-body" aria-label="コメントの入力を閉じる" title="コメントの入力を閉じる"><svg class="icon" viewBox="0 0 24 24" aria-hidden="true"><path d="m9 6 6 6-6 6"/></svg></button></div><div class="send-body" id="sf-15-body"><div class="send-line"><textarea id="sf-15" name="body" rows="1" aria-keyshortcuts="Control+Enter" aria-describedby="sf-15-msg"></textarea><button class="icon-btn send-submit" type="submit" aria-label="レビューに追加" title="レビューに追加（Ctrl+Enter）"><svg class="icon" viewBox="0 0 24 24" aria-hidden="true"><path d="M4 5h16v11H10l-5 4v-4H4Z"/><path d="M8 9h8M8 12.5h5"/></svg></button></div><p class="send-msg saved" id="sf-15-msg" role="status"><svg class="icon" viewBox="0 0 24 24" aria-hidden="true"><path d="m5 12 5 5 9-10"/></svg><span>レビューに追加しました（レビュー中 3 件）。</span></p></div></form></div>
+    </section>
+    <section class="cat-sec">
+      <h2>閉じた（最も狭い幅 320px）</h2>
+      <p>閉じても開閉のボタンの幅は保つ。</p>
+      <div class="stage narrowest"><form class="send send-footer is-closed" novalidate onsubmit="return false"><div class="send-head"><span class="send-label"><span class="mono">D-022</span> へのコメント</span><button class="icon-btn send-toggle" type="button" aria-expanded="false" aria-controls="sf-c4-body" aria-label="コメントの入力を開く" title="コメントの入力を開く"><svg class="icon" viewBox="0 0 24 24" aria-hidden="true"><path d="m9 6 6 6-6 6"/></svg></button></div><div class="send-body" id="sf-c4-body" hidden></div></form></div>
     </section>
   </main>
 </body>

diff --git a/dev/mock/components/reply-form/index.html b/dev/mock/components/reply-form/index.html
@@ -113,6 +113,11 @@
 12 行目: 版ごとに当てる操作を確かめる</textarea><button class="icon-btn send-submit" type="submit" aria-label="レビューに追加" title="レビューに追加（Ctrl+Enter）"><svg class="icon" viewBox="0 0 24 24" aria-hidden="true"><path d="M4 5h16v11H10l-5 4v-4H4Z"/><path d="M8 9h8M8 12.5h5"/></svg></button></div><p class="send-msg" id="rf-7b-msg" role="status"></p></form></div>
     </section>
     <section class="cat-sec">
+      <h2>開閉のボタン（置く入力の案 B）</h2>
+      <p>返信の入力にも、ラベル「返信」の行の右端に開閉のボタンを置いた案。閉じたときは「返信」の 1 行だけを出す。</p>
+      <div class="stage"><form class="send send-footer reply" novalidate onsubmit="return false"><div class="send-head"><label class="send-label" for="rf-b">返信</label><button class="icon-btn send-toggle" type="button" aria-expanded="true" aria-controls="rf-b-body" aria-label="返信の入力を閉じる" title="返信の入力を閉じる"><svg class="icon" viewBox="0 0 24 24" aria-hidden="true"><path d="m9 6 6 6-6 6"/></svg></button></div><div class="send-body" id="rf-b-body"><div class="send-line"><textarea id="rf-b" name="body" rows="1" aria-keyshortcuts="Control+Enter" aria-describedby="rf-b-msg" maxlength="10000">起票してよい。題は「版の範囲から当てる手順を返すコマンド」に縮めてほしい</textarea><button class="icon-btn send-submit" type="submit" aria-label="レビューに追加" title="レビューに追加（Ctrl+Enter）"><svg class="icon" viewBox="0 0 24 24" aria-hidden="true"><path d="M4 5h16v11H10l-5 4v-4H4Z"/><path d="M8 9h8M8 12.5h5"/></svg></button></div><p class="send-msg" id="rf-b-msg" role="status"></p></div></form></div>
+    </section>
+    <section class="cat-sec">
       <h2>狭い幅（390px）</h2>
       <p>部品の幅によらず入力欄とボタンを 1 行に並べ、結果は入力欄の下に幅いっぱいで出す。</p>
       <div class="stage narrow"><form class="send send-footer reply" novalidate onsubmit="return false"><label class="send-label" for="rf-8">返信</label><div class="send-line"><textarea id="rf-8" name="body" rows="1" aria-keyshortcuts="Control+Enter" aria-describedby="rf-8-msg" maxlength="10000">起票してよい。題は「版の範囲から当てる手順を返すコマンド」に縮めてほしい</textarea><button class="icon-btn send-submit" type="submit" aria-label="レビューに追加" title="レビューに追加（Ctrl+Enter）"><svg class="icon" viewBox="0 0 24 24" aria-hidden="true"><path d="M4 5h16v11H10l-5 4v-4H4Z"/><path d="M8 9h8M8 12.5h5"/></svg></button></div><p class="send-msg failed" id="rf-8-msg" role="status"><svg class="icon" viewBox="0 0 24 24" aria-hidden="true"><path d="M12 3 2 20h20Z"/><path d="M12 10v4M12 17h.01"/></svg><span>レビューに追加できませんでした。サーバーが止まっています。立ち上げ直してから追加してください。</span></p></form></div>

diff --git a/dev/mock/refs/473/assets/style.css b/dev/mock/refs/473/assets/style.css
@@ -22,11 +22,28 @@
 }
 
 /* 結果の行: 入力欄の下に幅いっぱいで出し、結果が無い間は高さを取らない */
-.send > .send-msg { min-height: 0; padding-top: 0; }
+.send > .send-msg, .send-body > .send-msg { min-height: 0; padding-top: 0; }
 /* 結果が無い結果の行: 行を出さない */
-.send > .send-msg:empty { display: none; }
+.send > .send-msg:empty, .send-body > .send-msg:empty { display: none; }
 
 /* 本文のコピー: 理由の下に置くアイコンだけのボタン。左端を理由の文の頭に合わせる */
 .send-copy-icon { width: var(--target-min); height: var(--target-min); margin-left: -4px; }
 /* 本文のコピーのアイコン: 結果の行の印と同じ大きさにし、文字の色にする */
 .send-msg .send-copy-icon svg.icon { width: 14px; height: 14px; margin-top: 0; color: currentColor; }
+
+/* 見出しの行: 「{ID} へのコメント」を左に、開閉のボタンを右端に置く */
+.send-head { display: flex; align-items: center; gap: 8px; min-width: 0; }
+/* 見出しの文字: 残りの幅に収め、はみ出す分は省く */
+.send-head .send-label { flex: 1; min-width: 0; overflow: hidden; text-overflow: ellipsis; white-space: nowrap; }
+/* 開閉のボタン: 押す部品の最小の大きさにする */
+.send-toggle { flex: none; width: var(--target-min); height: var(--target-min); }
+/* 開閉のボタンのアイコン: 開いている間は v（下向き） */
+.send-toggle svg.icon { transform: rotate(90deg); }
+/* 閉じている間は ^（上向き） */
+.send-toggle[aria-expanded="false"] svg.icon { transform: rotate(-90deg); }
+/* 閉じた入力: 見出しの行だけにし、上下の余白を詰める */
+.send.is-closed { padding-block: 8px; }
+/* 開閉する範囲: 中の要素を入力の並びにそのまま並べる */
+.send-body { display: contents; }
+/* 閉じた範囲: 出さない */
+.send-body[hidden] { display: none; }

diff --git a/dev/mock/components/index.md b/dev/mock/components/index.md
@@ -27,10 +27,10 @@
 | [removed-mark](./removed-mark/index.html) | 消した項目（消した印・一覧の上の帯の案 B・一覧の末尾の行とカードとボードの列の案 A・タブの点・時点の件数・長いタイトル・狭い幅） |
 | [selection-comment](./selection-comment/index.html) | 選んだ箇所のコメントの入口（印だけの丸・印と小さい「コメント」・ホバーとフォーカスの名前のツールチップ・上に収まらないとき・半透明の面・位置の案（始まりの上・終わりの下・右の余白）・今の入口・狭い幅） |
 | [settings-panel](./settings-panel/index.html) | 表示の設定のパネル（既定のまま・端末で変えている・種類を一部外した・保存した直後・既定が届いた・端末に保存できない・配る書き出し・ライト / ダークも置く案・既定を別の区画で選ぶ案・ホバー・フォーカス・狭い幅・差分のミニマップを表示しない・呼び名の案・置き場所の案・本文の表とセクションの見せ方を変えている）と、ワークスペースの既定の確かめ（変える項目・変えない項目・保存している途中・保存できなかった・狭い幅） |
-| [reply-form](./reply-form/index.html) | 返信の入力（空・入力中・ボタンのフォーカス・溜めている・レビューに追加した・追加できなかった・長文のボタンの縦の位置の 2 案・狭い幅） |
+| [reply-form](./reply-form/index.html) | 返信の入力（空・入力中・ボタンのフォーカス・溜めている・レビューに追加した・追加できなかった・長文のボタンの縦の位置の 2 案・開閉のボタンの案 B・狭い幅） |
 | [review-body-fold](./review-body-fold/index.html) | レビュー中の書き込みの本文の折りたたみ（5 行以下・改行で超える・改行の無い長文・開いた・返信・ホバーとフォーカス・狭い幅。本文のすぐ下の案 A と「スレッドを開く」と同じ行の案 B） |
 | [review-row](./review-row/index.html) | レビュー中の書き込みの行（新しいスレッド・返信・クローズのスレッドへの返信・チェックを外した・修正と消した・示している行・狭い幅） |
-| [send-form](./send-form/index.html) | コメントの入力（空・入力中・ボタンのホバーとフォーカス・箇所を添えた・溜めている・溜めた・本文が空・溜められなかった・長文のボタンの縦の位置の 2 案・アイコンの案・項目を指さない・畳んだ形・狭い幅） |
+| [send-form](./send-form/index.html) | コメントの入力（空・入力中・ボタンのホバーとフォーカス・箇所を添えた・溜めている・溜めた・本文が空・溜められなかった・長文のボタンの縦の位置の 2 案・アイコンの案・開閉のボタンと閉じた形・項目を指さない・畳んだ形・狭い幅） |
 | [table](./table/index.html) | 表（並べ替え・列の絞り込み・条件のチップ・ピン留め・表示する列・該当なし・A 案の列の見出しの文字の絞り込み） |
 | [term-tip](./term-tip/index.html) | 本文の印のツールチップ（用語だけ・用語と資料・調査の見出しと区切り線・説明の無い資料・件数が多いときの中のスクロール・上に収まらないとき・リンクのホバーとフォーカス・長いタイトル・狭い幅）と、資料・調査の詳細の説明とエイリアス |
 | [thread-row](./thread-row/index.html) | スレッドの行（AI が返信した・レビュー中の返信を持つ・AI が立てた・最後の書き手が利用者・まだ送っていない新しいスレッド・クローズ・長い要約・タグで絞っている・ホバーとフォーカス・一覧の全体・新しいスレッドを書く・0 件・狭い幅） |

diff --git a/dev/pr/473/要件.md b/dev/pr/473/要件.md
@@ -3,6 +3,7 @@
 ## 要望
 
 コメントの入力と返信の入力の「レビューに追加」を、文字を出さないアイコンだけのボタンにし、入力欄の右（同じ行）に配置する。
+あわせて、詳細パネル・詳細の全画面の下端のコメントの入力を、右上の開閉のボタンで閉じたり開いたりできるようにする（[PR の会話欄の追加の要望](https://github.com/shuhei1101/mindstella/pull/473#issuecomment-6724163287)）。
 今の画面（`/mindstella.html`）の部品と React の画面（`/spa/`）の部品の両方を変更し、2 つの画面の振る舞いを統一したままにする。
 
 <!-- table: data -->
@@ -20,4 +21,27 @@
 | アイコンのボタンの見た目 | 1 行の入力欄と同じ高さの正方形の、主な操作の色で塗ったボタンにする。タッチが主な端末（`pointer: coarse`）では 44 x 44 CSS px にし、1 行の入力欄も同じ高さにする。[#245](https://github.com/shuhei1101/mindstella/issues/245) の選んだ箇所の入口のボタンは、塗りではなく、アイコンだけにすることと読み上げの名前・ツールチップの持ち方をこのボタンに統一する |
 | 本文のコピー | コメントの入力の、サーバーにつながらず溜められなかったときに出す「本文を写す」を、コピーのアイコンだけのボタンにする。読み上げの名前とツールチップは「本文をコピー」にする |
 
+| 入力の開閉 | 詳細パネル・詳細の全画面の下端のコメントの入力の右上（「{ID} へのコメント」の行の右端）に、アイコンだけの開閉のボタンを配置する。開いている間は v（読み上げの名前とツールチップは「コメントの入力を閉じる」）、閉じている間は ^（「コメントの入力を開く」）にし、`aria-expanded` で開閉を伝える。閉じている間は「{ID} へのコメント」の 1 行だけを出し、入力欄・添えた箇所・結果・「レビューに追加」を出さない。書きかけは閉じても残す。選んだ箇所の入口を押したときは開いてから入力欄へフォーカスを移す |
 <!-- /table -->
+
+`未確定`: 開閉のボタンを置く入力（決める段: モック作成）
+
+| 案 | 内容 | メリット | デメリット |
+| --- | --- | --- | --- |
+| A | 詳細パネル・詳細の全画面の下端のコメントの入力だけ | 本文の下に常に出ていて場所を取る入力だけに絞れる | スレッドの返信の入力は開閉できない |
+| B | A に加えてスレッドの下端の返信の入力も | 入力の見た目と操作が揃う | スレッドは返信を書く画面で、閉じる場面が少ない |
+
+推奨: A
+
+要望の「基本固定」の入力は、本文を読む間も下端に出続ける詳細のコメントの入力のため。
+
+`未確定`: 開閉を覚える範囲（決める段: モック作成）
+
+| 案 | 内容 | メリット | デメリット |
+| --- | --- | --- | --- |
+| A | この端末に覚え、項目を移っても・開き直しても同じ開閉で出す | 一度閉じれば読む間ずっと閉じたままにできる | 閉じたことを忘れると、入力の場所が分かりにくい |
+| B | 覚えず、詳細を開くたびに開いた形で出す | 入力の場所がいつも分かる | 項目を移るたびに閉じ直す |
+
+推奨: A
+
+本文を読む場所を空けたいという要望のため、項目を移るたびに閉じ直させない。閉じても「{ID} へのコメント」の行と ^ は残るため、入力の場所は分かる。

diff --git a/dev/mock/refs/index.md b/dev/mock/refs/index.md
@@ -2,7 +2,7 @@
 
 | Issue / PR | 概要 |
 | --- | --- |
-| [473](./473/index.md) | コメント・返信の入力の「レビューに追加」をアイコンだけのボタンにし、入力欄の右に配置する（コメントの入力・返信の入力のボタンと結果の行の並び・長文のときのボタンの縦の位置の 2 案（下端の案 A と上端の案 B）・アイコンの 2 案（吹き出しの案 A と紙飛行機の案 B）） |
+| [473](./473/index.md) | コメント・返信の入力の「レビューに追加」をアイコンだけのボタンにし、入力欄の右に配置する（コメントの入力・返信の入力のボタンと結果の行の並び・長文のときのボタンの縦の位置の 2 案（下端の案 A と上端の案 B）・アイコンの 2 案（吹き出しの案 A と紙飛行機の案 B）・コメントの入力の右上の開閉のボタンと閉じた形） |
 | [427](./427/index.md) | スレッドの画面と詳細パネルで、レビュー中のコメントの長い本文を折りたたむ（スレッドの画面のレビュー中の返信と詳細パネルのレビュー中のコメントの畳み方・詳細パネルの本文の Markdown での描き方・「続きを読む」の置き場所の 2 案（本文の下の行の案 A と右上の「修正」「削除」の左の案 B）） |
 | [422](./422/index.md) | 詳細の全画面と左のパネルを開いたとき、ほかの部分をグレーアウトし、押したら閉じる（詳細の全画面の幕の濃さ・絞り込み・表示の設定・保存待ち・コメントの一覧の幕と外側の押下で閉じる・コメントの一覧のピン止めのボタンの 2 案（ピンのアイコンの案 A とピンと文字の案 B）・開き直したときの戻り方） |
 | [396](./396/index.md) | 詳細のレビュー中のコメントの並びを新しい順・古い順で切り替えられるようにする（詳細パネルのレビュー中のコメントの見出しの行の並びの切り替え。「新しい順」「古い順」のボタンの組の案 A と、今の並びを出す 1 つのボタンの案 B） |

diff --git a/dev/pr/473/プレビュー.md b/dev/pr/473/プレビュー.md
@@ -28,6 +28,7 @@
 | 配置 | 入力欄とボタンを 1 行に並べ、入力欄を残りの幅いっぱいに広げる。結果の行は入力欄の下に幅いっぱいで出し、空の間は高さを取らない | ボタンは入力欄の下端に合わせる |
 | 狭い幅 | 部品の幅によらず同じ並びにし、結果を下の行に移すコンテナクエリ（`@max-send-narrow`・`.send-row` の折り返し）を不要にする | Narrow のストーリーは残し、390px・320px で入力欄がつぶれないことを確認する |
 | 本文のコピー | コメントの入力の「本文を写す」を、コピーのアイコンだけのボタン（`aria-label`・`title` は「本文をコピー」）にする | 理由の文の下に置く |
+| 入力の開閉 | コメントの入力の「{ID} へのコメント」の行の右端に開閉のボタン（アイコンだけ・`aria-expanded`）を置き、閉じている間はその 1 行だけを出す | 置く入力と覚える範囲は `未確定`（[要件](./要件.md)） |
 | 押せない状態・キーの操作 | 変更しない | - |
 | アクセシビリティ | 読み上げの名前とツールチップは変えず、フォーカスの輪は既存のボタンと同じにする。タップ領域は 1 行の入力欄と同じ高さの正方形で、タッチが主な端末では 44 x 44 CSS px にする | - |
 | 既存機能への影響 | `get_by_role("button", name="レビューに追加")` で押す E2E・結合テストは読み上げの名前が変わらないため変更しない | - |

diff --git a/dev/mock/refs/473/index.md b/dev/mock/refs/473/index.md
@@ -5,5 +5,5 @@
 
 | 部品 | 中身 |
 | --- | --- |
-| [send-form](../../components/send-form/index.html) | コメントの入力（空・入力中・ボタンのホバーとフォーカス・箇所を添えた・溜めている・溜めた・本文が空・溜められなかった・長文のボタンの縦の位置の 2 案・アイコンの案 B・項目を指さない・畳んだ形・狭い幅） |
-| [reply-form](../../components/reply-form/index.html) | 返信の入力（空・入力中・ボタンのフォーカス・溜めている・レビューに追加した・追加できなかった・長文のボタンの縦の位置の 2 案・狭い幅） |
+| [send-form](../../components/send-form/index.html) | コメントの入力（空・入力中・ボタンのホバーとフォーカス・箇所を添えた・溜めている・溜めた・本文が空・溜められなかった・長文のボタンの縦の位置の 2 案・アイコンの案 B・開閉のボタンと閉じた形・項目を指さない・畳んだ形・狭い幅） |
+| [reply-form](../../components/reply-form/index.html) | 返信の入力（空・入力中・ボタンのフォーカス・溜めている・レビューに追加した・追加できなかった・長文のボタンの縦の位置の 2 案・開閉のボタンを置く案 B・狭い幅） |
